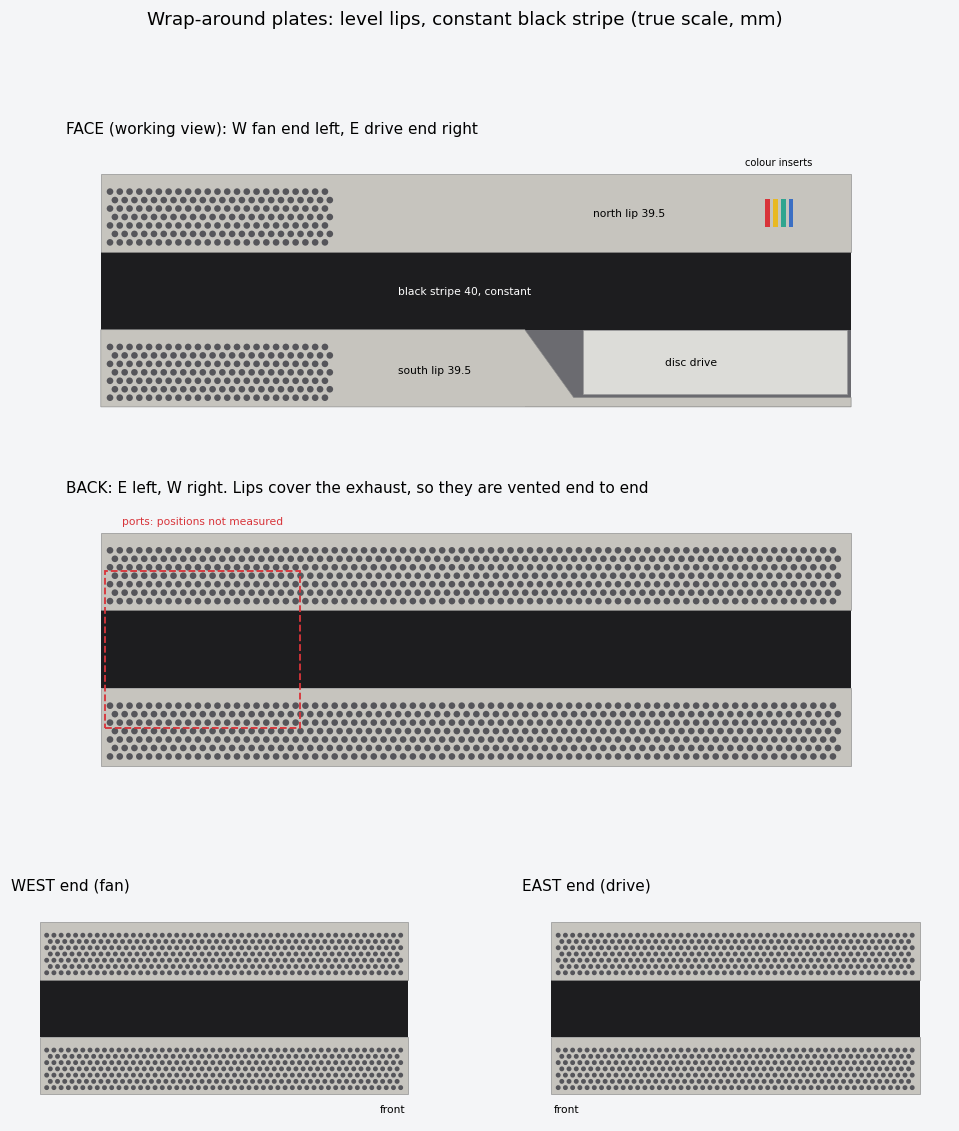
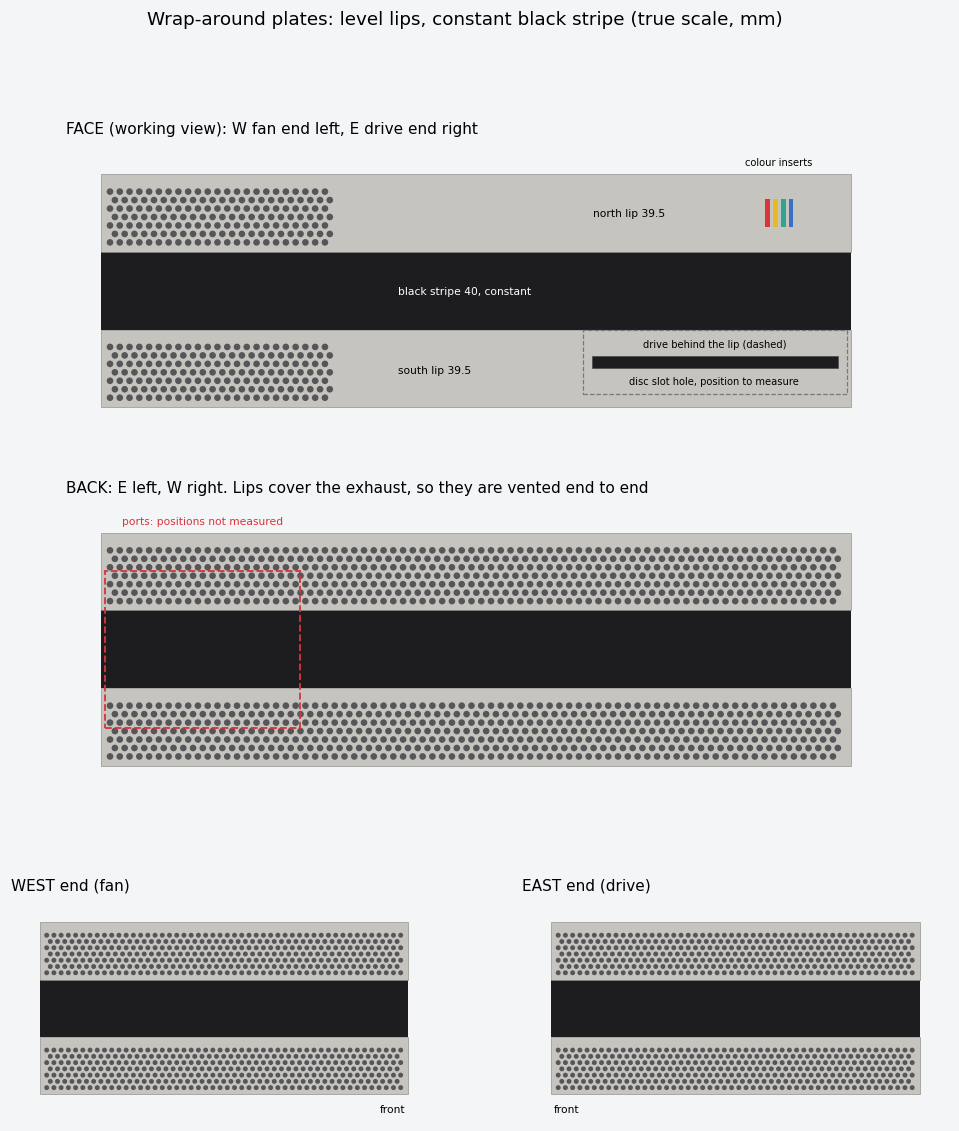
Put the drive behind the level south lip with a disc slot hole

Changed region(s): [[0.5443, 0.2785, 0.9072, 0.3714]]

diff --git a/docs/mockups/wrap_mockup.py b/docs/mockups/wrap_mockup.py
@@ -41,16 +41,16 @@ def face(ax):
     """you looking at the front: W (fan) left, E (drive) right. u = 380 - z"""
     frame(ax, "FACE (working view): W fan end left, E drive end right", 384)
     ax.add_patch(Rectangle((L0, B_LO), L1 - L0, BAND, fc=CORE))
-    ax.add_patch(Rectangle((380 - 165, BOT), 167, B_LO - BOT, fc="#6b6b70"))   # open gap behind the swoop
-    lip(ax, L0, L1, B_HI, TOP)                                            # north lip
-    sw0, sw1 = 380 - 165, 380 - 140                                       # south lip swoops down over the drive (z 0..135)
-    ax.add_patch(Polygon([(L0, BOT), (L1, BOT), (L1, BOT + 4.8), (sw1, BOT + 4.8), (sw0, B_LO), (L0, B_LO)],
-                         fc=PLATE, ec="#888", lw=0.4))
-    ax.add_patch(Rectangle((380 - 135, -50.8), 135, -17.8 + 50.8, fc=DRIVE, ec="#999", lw=0.4))
+    lip(ax, L0, L1, B_HI, TOP); lip(ax, L0, L1, BOT, B_LO)               # both lips level, end to end
+    # drive (z 0..135) sits behind the south lip, like the stock plate; dashed = hidden
+    ax.add_patch(Rectangle((380 - 135, -50.8), 135, -17.8 + 50.8, fill=False, ec="#777", lw=0.8, ls="--"))
+    # disc slot hole: ~126 x 6 placeholder, centred on the drive; real position from TODO Job 1D
+    ax.add_patch(Rectangle((380 - 67.5 - 63, -34.3 - 3), 126, 6, fc=CORE, ec="#444", lw=0.4, joinstyle="round"))
     vents(ax, L0, 120, B_HI, TOP); vents(ax, L0, 120, BOT, B_LO)
     for i, col in enumerate(ACCENT):                                      # 4 inserts, 2.5 x 14 each
         ax.add_patch(Rectangle((338 + i * 4, C + BAND / 2 + 39.5 / 2 - 7), 2.5, 14, fc=col, lw=0))
-    ax.text(300, -36, "disc drive", ha="center", fontsize=7)
+    ax.text(312, -27, "drive behind the lip (dashed)", ha="center", fontsize=6.5)
+    ax.text(312, -46, "disc slot hole, position to measure", ha="center", fontsize=6.5)
     ax.text(250, 40, "north lip 39.5", fontsize=7); ax.text(150, 0, "black stripe 40, constant", color="w", fontsize=7)
     ax.text(150, -40, "south lip 39.5", fontsize=7)
     ax.text(345, 66, "colour inserts", fontsize=6.5, ha="center")

diff --git a/CLAUDE.md b/CLAUDE.md
@@ -20,14 +20,14 @@ disc drive, light bars are NOT covered). Style: minimalism, subtle touches, PS1 
 | Front / rear | Open – plates never cover I/O, disc slot or rear exhaust |
 | Short ends | **Direction: option D** (2026-11-02) — no separate mesh panels; the plates' own end walls carry vent slots that wrap the corners from the fan grille (BoxPlates idea, adapted for FDM). Our own pattern, not Devyn's line pattern. Wall shape/slot details still to brainstorm, see `HANDOFF.md`. Semi-open walls in `slab.py` are rejected |
 | Edges | Straight edges. Gaps as invisible as possible → skirt edges are straight but follow the core twist (4 mm reveal) |
-| Drive | **Notch** in disc-side skirt so the drive face is framed, no gap |
+| Drive (2026-11-02) | Drive sits **behind the level south face lip**, like the stock faceplate; the lip has a **disc slot hole** (position from TODO Job 1D). Replaces the old notch and the swoop idea |
 | Fan | 120 mm double-sided intake (Sony teardown + iFixit photo confirm openings both sides) → grille on **both** plates |
 | Accent | Four-colour decorative inserts (red/yellow/green/blue), no lighting. No Sony logo/trademark |
 | Colour | Plates PS1-style grey (#c6c4be); core is the console's own black |
 | Mounting | **Slide-in, replaceable clip strips** (2026-11-02, BoxPlates-style) that slot into channels on the plate inner wall/floor; no glue. Replaces glued shelves + 0.8 mm pockets. Channel/retention design not done; shelves v2 hook geometry is the starting point |
 | Assembly | Weld tiles on the bench (only solvent step, never near the console) → slide clip strips in → fit to console |
 | Feet | TPU, ~12 mm, on the bottom plate (bottom fan grille must breathe) |
-| Wrap / lips (2026-11-02) | Plates wrap the core with **level lips and a constant 40 mm black stripe** on face, back and both ends (devynPC 1:05 sketch; `docs/mockups/wrap_views.png`). Lips sit in front of the core face, so they are **separate lip strips welded to the plate edge**; the plate tiles stay 255 deep for the 256 bed. Face lips vented at the fan end; back lips vented end to end with port cut-outs (TODO Job 1D); south face lip swoops over the drive |
+| Wrap / lips (2026-11-02) | Plates wrap the core with **level lips and a constant 40 mm black stripe** on face, back and both ends (devynPC 1:05 sketch; `docs/mockups/wrap_views.png`). Lips sit in front of the core face, so they are **separate lip strips welded to the plate edge**; the plate tiles stay 255 deep for the 256 bed. Face lips vented at the fan end; back lips vented end to end with port cut-outs (TODO Job 1D); south face lip runs level over the drive with a disc slot hole |
 | Accent placement | Colour inserts on the **north face lip** (seen from the working orientation), not on the plate top |
 
 ## Printing constraints

diff --git a/HANDOFF.md b/HANDOFF.md
@@ -76,7 +76,7 @@ Devyn Johnston, https://youtu.be/yilU2dU2YgA (4:50, 20 Jan 2025). This is the fi
 ## Wrap-around mockup (2026-11-02)
 Mike pointed to the 1:05 sketch in video 2: plates as level, constant-height lips with a constant black stripe between them, and the same treatment on the west and east ends. The colour inserts move to the **face**. Drawing: `docs/mockups/wrap_views.png`, made with `python3 -I docs/mockups/wrap_mockup.py <out.png>`.
 - Stripe 40 mm, centred on the core (x −17.8…22.2), which is the core's narrowest front width. Each lip comes out at 39.5 mm, so the front reads as thirds.
-- Face: vents on both lips at the fan (W) end. The south lip swoops down over the drive (z 0…135). The colour inserts sit on the north lip at the E end.
+- Face: vents on both lips at the fan (W) end. The south lip runs level over the drive (z 0…135), and the drive sits behind it with a disc slot hole like the stock faceplate (Mike, 2026-11-02; replaces the swoop). In the core proxy the drive is x −50.8…−17.8, inside the lip, and flush with the core face at y 127.5. The colour inserts sit on the north lip at the E end.
 - Back: the lips cover the exhaust, so they are vented end to end. **Port positions are not measured**, and the lips need cut-outs there.
 - Ends: both end walls are fully vented (option D), with the same stripe.
 - **Depth problem:** a lip that hides the core's curve sits in front of the core face. The core proxy is ±127.5 deep for z 0…200 and tapers to ±121 at the fan end, so the plates grow to about 261 mm deep (0.5 clearance + 2.5 wall per side). That doesn't fit the 256 mm bed in any orientation. **Mike chose separate lip strips** welded to the plate edge (recorded in `CLAUDE.md`). Port positions: TODO.md Job 1D.

diff --git a/TODO.md b/TODO.md
@@ -97,7 +97,7 @@ The new plates have edges that cover part of the black middle. Claude needs to k
 - [ ] Look at the **back**. For each plug in the table, measure two things:
   - **From the drive end:** from the drive end of the black part to the near edge and to the far edge of the plug.
   - **Up from the table:** from the table to the bottom edge and to the top edge of the plug.
-- [ ] Do the same on the **front** for the USB plugs and the two buttons.
+- [ ] Do the same on the **front** for the USB plugs, the two buttons and the disc slot.
 
 | Where | Plug or button | From drive end: near / far (mm) | Up from table: bottom / top (mm) |
 |---|---|---|---|
@@ -110,6 +110,7 @@ The new plates have edges that cover part of the black middle. Claude needs to k
 | Front | USB-C | ___ / ___ | ___ / ___ |
 | Front | Power button | ___ / ___ | ___ / ___ |
 | Front | Eject button | ___ / ___ | ___ / ___ |
+| Front | Disc slot (the opening, not the whole drive) | ___ / ___ | ___ / ___ |
 
 - [ ] One more: at the **back**, measure how tall the black part is (table side to top side) at the drive end and at the fan end.
 
